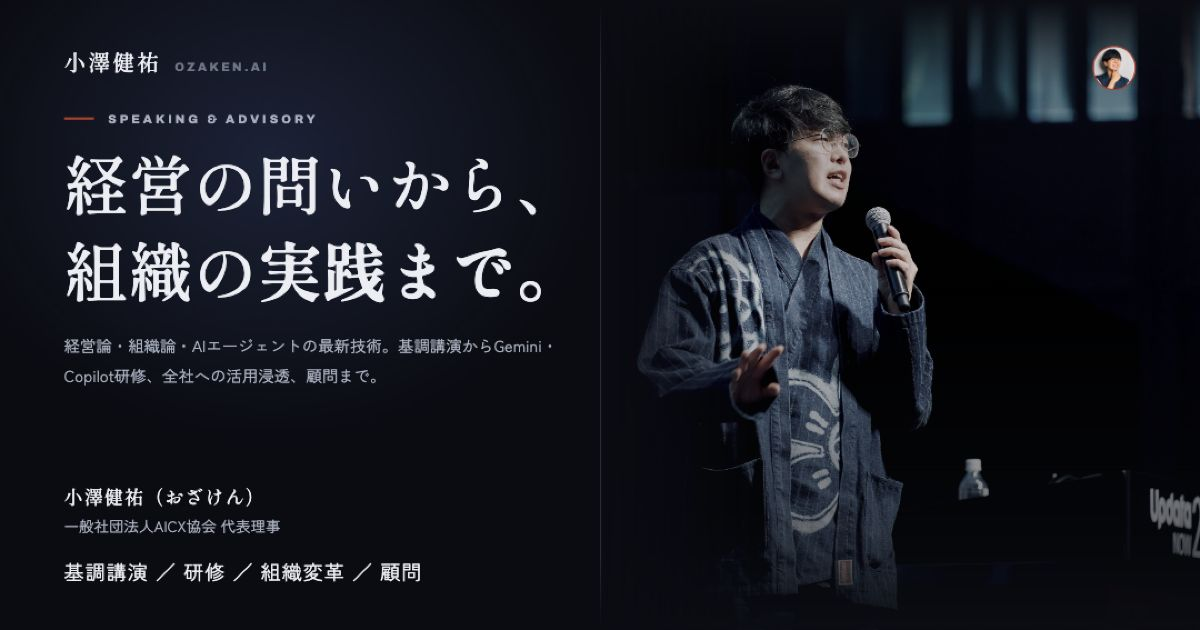
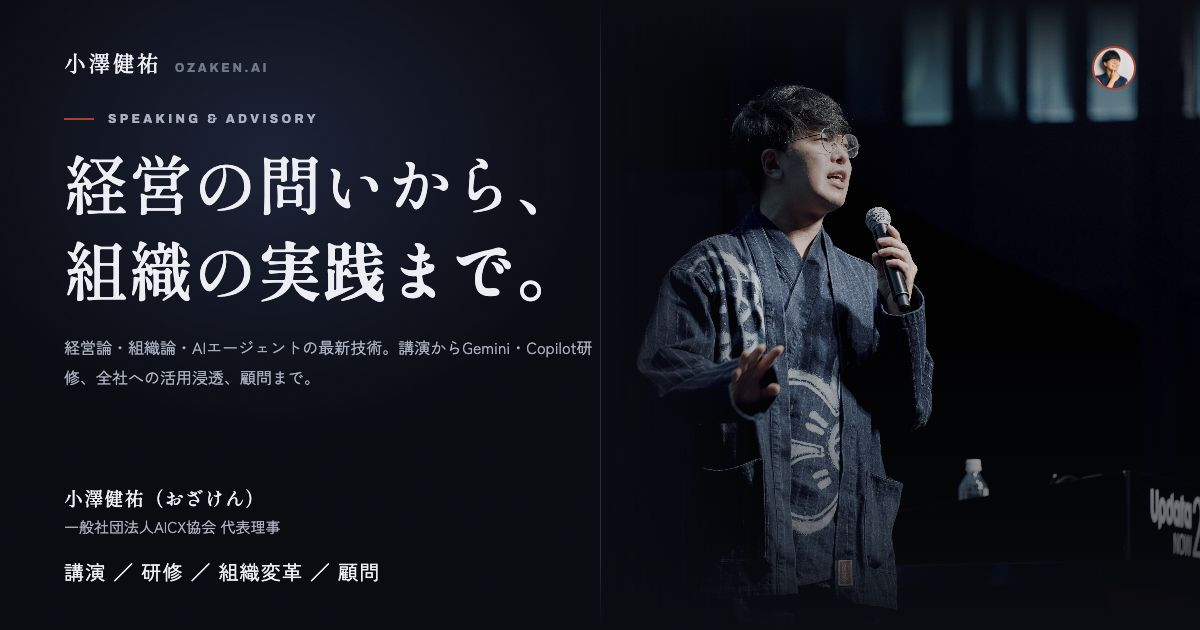
Use broader lecture wording across service pages and sharing (#21)

diff --git a/src/lib/site.ts b/src/lib/site.ts
@@ -128,7 +128,7 @@ export const MENU = [
     slug: 'keynote',
     idx: '01',
     kind: '講演',
-    title: 'カンファレンス・経営層向けの基調講演',
+    title: '企業・団体・カンファレンス向けの講演',
     spec: '60–90 min ／ 質疑応答つき',
     body: '経営論・組織論からAIエージェントの最新技術トレンドまで。企業の価値、人間の役割、社会の変化をつなぎ、参加者が次の議論に進むための視点を届けます。',
     forWhom: 'カンファレンス・業界団体の年次総会・経営会議',
@@ -270,7 +270,7 @@ export function speakingHref(slug: keyof typeof SPEAKING_ANCHORS): string {
 
 /** トップと統合依頼ページで共有する、目的から選ぶ入口。 */
 export const FORMATS = [
-  { slug: 'keynote', label: '基調講演', purpose: '経営と事業の問いを深める', detail: '経営論・組織論・AIエージェントの最新技術トレンド', outcome: '次の議論に進むための視点' },
+  { slug: 'keynote', label: '講演', purpose: '経営と事業の問いを深める', detail: '経営論・組織論・AIエージェントの最新技術トレンド', outcome: '次の議論に進むための視点' },
   { slug: 'training', label: '研修・ワークショップ', purpose: '自分の業務で使えるようにする', detail: '生成AIの基礎・Gemini・Microsoft 365 Copilot', outcome: '業務で試し、確かめるための手順' },
   { slug: 'partner', label: '組織変革・伴走支援', purpose: '活用を全社に広げ、根づかせる', detail: '業務・役割の設計、推進体制、全社への活用浸透', outcome: '現場の課題に応じた推進の進め方' },
   { slug: 'advisory', label: '顧問・アドバイザリー', purpose: '経営の意思決定を継続的に相談する', detail: 'AI戦略・投資の優先順位・経営陣との対話', outcome: '判断に必要な論点と見立て' },
@@ -331,10 +331,10 @@ export const PRIVATE_ENGAGEMENTS = [
   { sector: '事業会社', title: '全社でのAIエージェント活用浸透プロジェクトの推進', kind: '全社への展開' },
 ] as const;
 
-/** 基調講演の企画テーマ。登壇実績とは別。根拠と更新手順は docs/keynote-series.md。 */
+/** 講演の企画テーマ。登壇実績とは別。公開済みのIDは維持する。根拠と更新手順は docs/keynote-series.md。 */
 export const KEYNOTE_SERIES = {
   title: 'AI時代の経営と組織の未来。',
-  lead: '「人間とAIが共存する社会をつくる。」を軸に、経営論・組織論から最新トレンドまでをつなぐ基調講演シリーズです。',
+  lead: '「人間とAIが共存する社会をつくる。」を軸に、経営論・組織論から最新トレンドまでをつなぐ講演シリーズです。',
   talks: [
     {
       id: 'management', number: '01', category: '経営論', english: 'Management',

diff --git a/scripts/ogp/template.html b/scripts/ogp/template.html
@@ -122,7 +122,7 @@
       <div class="who">
         <b>小澤健祐（おざけん）</b>
         <span>一般社団法人AICX協会 代表理事</span>
-        <p class="services">基調講演 ／ 研修 ／ 組織変革 ／ 顧問</p>
+        <p class="services">講演 ／ 研修 ／ 組織変革 ／ 顧問</p>
       </div>
     </div>
   </div>
@@ -142,7 +142,7 @@
       label: 'Speaking & Advisory',
       h1: '経営の問いから、<br>組織の<em>実践まで。</em>',
       sm: true,
-      sub: '経営論・組織論・AIエージェントの最新技術。基調講演からGemini・Copilot研修、全社への活用浸透、顧問まで。',
+      sub: '経営論・組織論・AIエージェントの最新技術。講演からGemini・Copilot研修、全社への活用浸透、顧問まで。',
     },
   };
   const v = V[new URLSearchParams(location.search).get('v')] || V.main;

diff --git a/docs/keynote-series.md b/docs/keynote-series.md
@@ -1,8 +1,10 @@
-# 基調講演シリーズの編集・企画
+# 講演シリーズの編集・企画
 
 作成日：2026-09-10。本人の希望は「カンファレンスの基調講演を増やしたい」「経営論、組織論、トレンドまで幅広く」。[content.ozaken.ai](https://content.ozaken.ai/) の既存資料を起点に、主催者が選べる講演テーマをまとめた。
 
 ## 位置づけ
+
+2026-09-11の本人の希望により、サイトの一般的なサービス名・メニュー・見出しは「講演」に統一する。基調講演は対応する開催形式の一つとして扱い、確認済みの過去実績の正式な役割名は変更しない。`KEYNOTE_SERIES`、`kind=keynote`、`#keynote-series`等は既存リンク・計測の互換性のため維持する。
 
 シリーズ名は **「AI時代の経営と組織の未来。」**。本人のビジョン「人間とAIが共存する社会をつくる。」を共通の軸にする。3回の連続受講を求める商品ではなく、1テーマから依頼でき、開催趣旨に合わせて組み合わせられる企画メニュー。
 
@@ -63,7 +65,7 @@ AI・テクノロジーカンファレンス、業界横断イベント、企業
 | シリーズ名、3講演のタイトル・概要・論点・対象・関連資料 | `src/lib/site.ts` の `KEYNOTE_SERIES` |
 | トップの3テーマ予告、4形式の比較、形式・進め方 | `KEYNOTE_SERIES` / `FORMATS` / `MENU` 内 `keynote` |
 | 3講演の概要・開閉式の補足、専用スタイル | `src/components/KeynoteSeries.astro` |
-| 基調講演ページ、SEO、60分の構成例 | `src/components/KeynoteSeries.astro`（構成例）、`src/pages/speaking/index.astro`（SEO） |
+| 講演ページ、SEO、60分の構成例 | `src/components/KeynoteSeries.astro`（構成例）、`src/pages/speaking/index.astro`（SEO） |
 | 統合した依頼ページの入口、SEO | `src/pages/speaking/index.astro` |
 
 詳細は `/speaking/#management`、`#organization`、`#trends`。主催者が共有できる固定アンカーとして維持する。2026-09-10の追加希望で一覧と詳細を `/speaking/` に統合した。旧 `/speaking/keynote/` は301転送し、既存のフラグメントを維持する。[統合ページの編集・検証](speaking-page.md)を参照。「代表的な登壇」枠はどのページにも戻さず、トップは4形式の目的別一覧と3テーマの短い予告から案内する。

diff --git a/docs/decisions.md b/docs/decisions.md
@@ -82,3 +82,9 @@
 ## 2026-09-11：英字氏名とSCROLLを整理
 
 本人からファーストビューの文字量を減らし、一般的なSCROLLとは違う表現にする希望を受けた。英字氏名行を外し、2本の線の間から光が下へほどける、文字のない合図へ変更。通常はお知らせへ進み、名前→見出し→合図の隠し操作では移動せずLINEを開く。開幕・背景の粒子・4形式への直接リンクは維持する。動きと操作は [デザインの引き継ぎ](design-and-motion.md#ファーストビューの文字量と光の合図)を参照。
+
+## 2026-09-11：一般的なサービス表記を「講演」へ
+
+本人の希望で、トップ・依頼メニュー・講演テーマの見出し・SEO・共有画像の一般的な表記を「基調講演」から「講演」へ広げる。基調講演は対応する開催形式の一つとして説明し、確認済みの過去実績の正式な役割名は残す。3テーマ、研修・組織変革・顧問の案内、既存のURL・アンカー・フォーム種別・計測IDは維持する。
+
+OGPは元HTMLと2枚の1200×630画像を更新し、画像URLのバージョンを5へ上げる。以降のAIもこの表記方針を引き継ぐ。編集箇所と互換性の扱いは [講演の編集・企画](keynote-series.md)を参照。

diff --git a/scripts/ogp/README.md b/scripts/ogp/README.md
@@ -10,6 +10,6 @@
 4. 通常URLをogp.png、`?v=speaking`をogp-speaking.pngとして書き出す。CSSの設計寸法は1200×630。ブラウザの倍率と出力画像寸法を必ず確認する。
 5. 書き出し環境の倍率補正が必要なら `renderScale` を使用できる（通常は1）。2026-09-11の環境ではDPR 0.9でキャプチャが逆倍率になるため、`renderScale=0.9`、clip 1080×567で1200×630を得た。別環境に同じ補正を無条件に適用しない。
 6. 両画像を実際に開き、文字、人物、境界、余白、縮小時の可読性を確認する。公開画像2枚と元テンプレートを同時に更新する。
-7. `src/layouts/Base.astro` のOG_VERSIONを上げる（今回4）。寸法とメタタグ、プレビュー、本番を確認する。
+7. `src/layouts/Base.astro` のOG_VERSIONを上げる（現在5。一般的なサービス名を「講演」へ変更）。寸法とメタタグ、プレビュー、本番を確認する。
 
 生成過程の一時素材やブラウザの制御スクリプトをpublicに置かない。ブラウザを使った一度の出力と、再実行できるテンプレートを区別して引き継ぐ。SNS側のキャッシュ更新は即時を保証しない。

diff --git a/AGENTS.md b/AGENTS.md
@@ -12,7 +12,7 @@
 | 開発、検証、PR、公開、障害対応 | [運用ガイド](docs/operations.md) |
 | 本人情報、SEO、告知文、写真、ロゴ、OGP | [文章・素材の運用](docs/content-and-assets.md) |
 | 依頼ページの構成、製品別研修、匿名の企業実績 | [統合ページの編集・検証](docs/speaking-page.md) |
-| 基調講演シリーズ、主催者向けの講演企画 | [基調講演の編集・企画](docs/keynote-series.md) |
+| 講演シリーズ、主催者向けの講演企画 | [講演の編集・企画](docs/keynote-series.md) |
 | 講演資料、PDF、ワークシート、週次トレンド | [資料作成と別リポジトリへの引き継ぎ](docs/materials.md) |
 | デザイン、開幕演出、粒子、LINE | [デザインと動き](docs/design-and-motion.md) |
 | お知らせの作成・修正 | [投稿手順](docs/news-post.md)、[CMS設定](docs/microcms-setup.md) |
